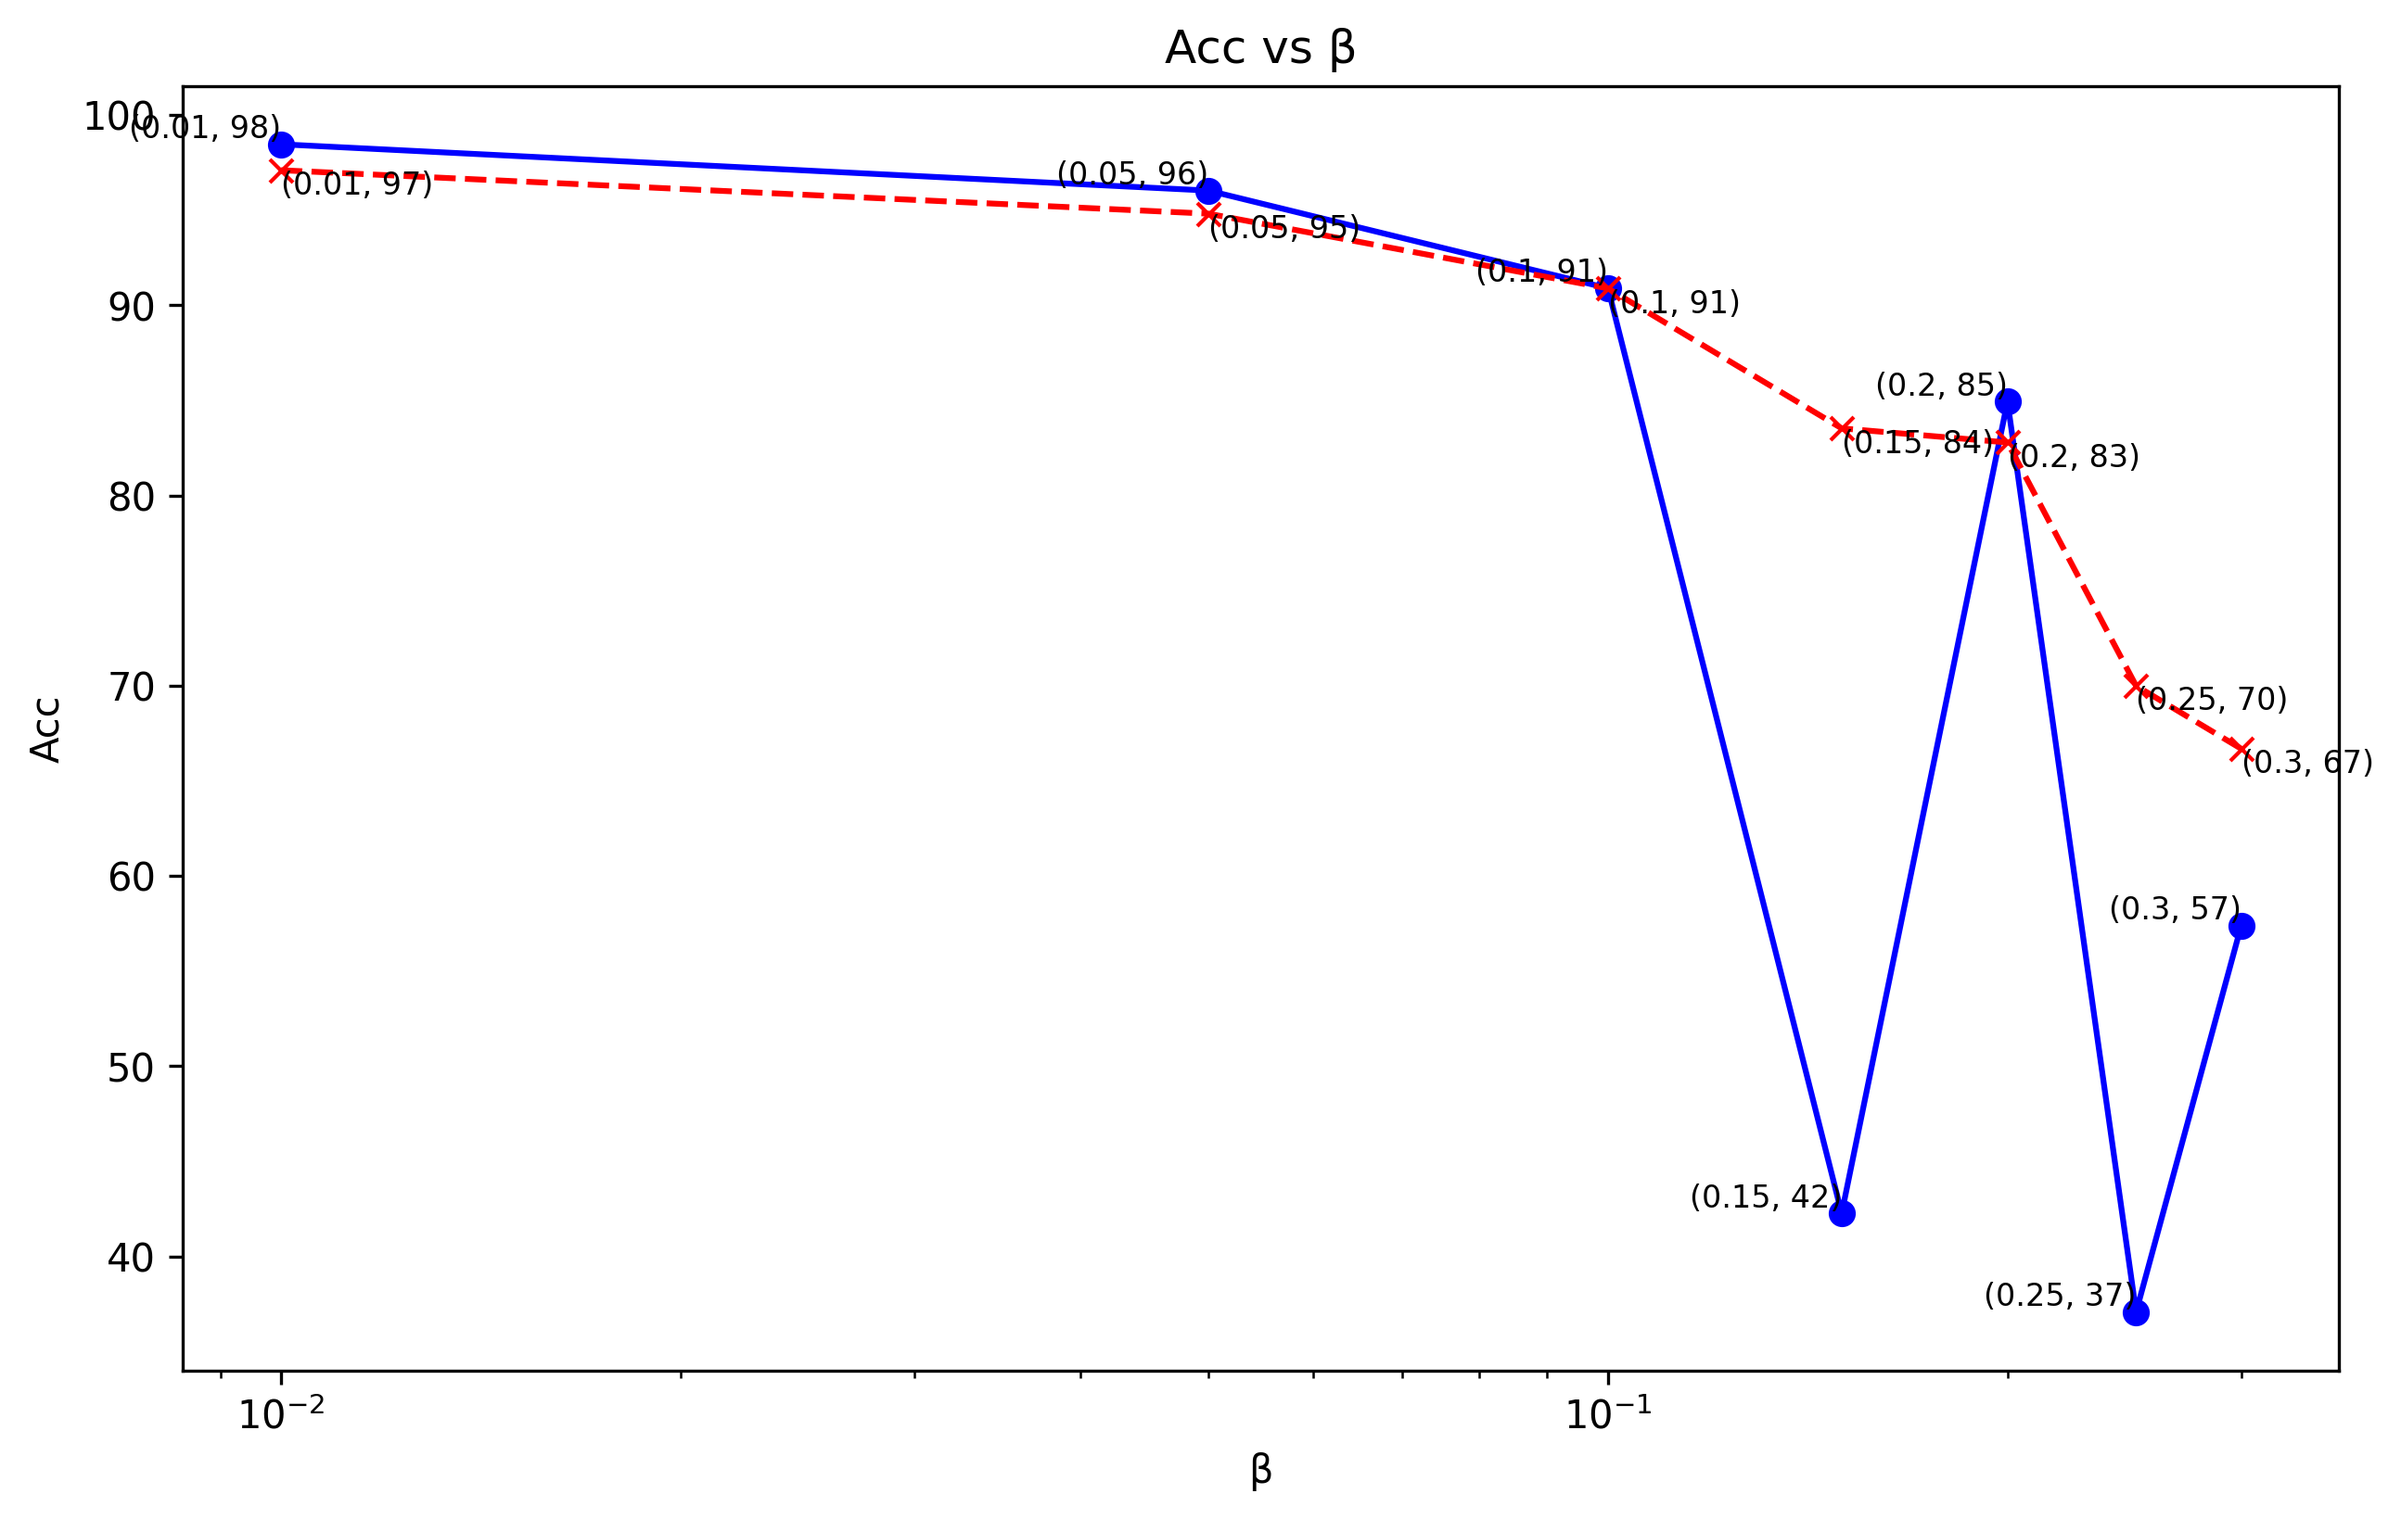
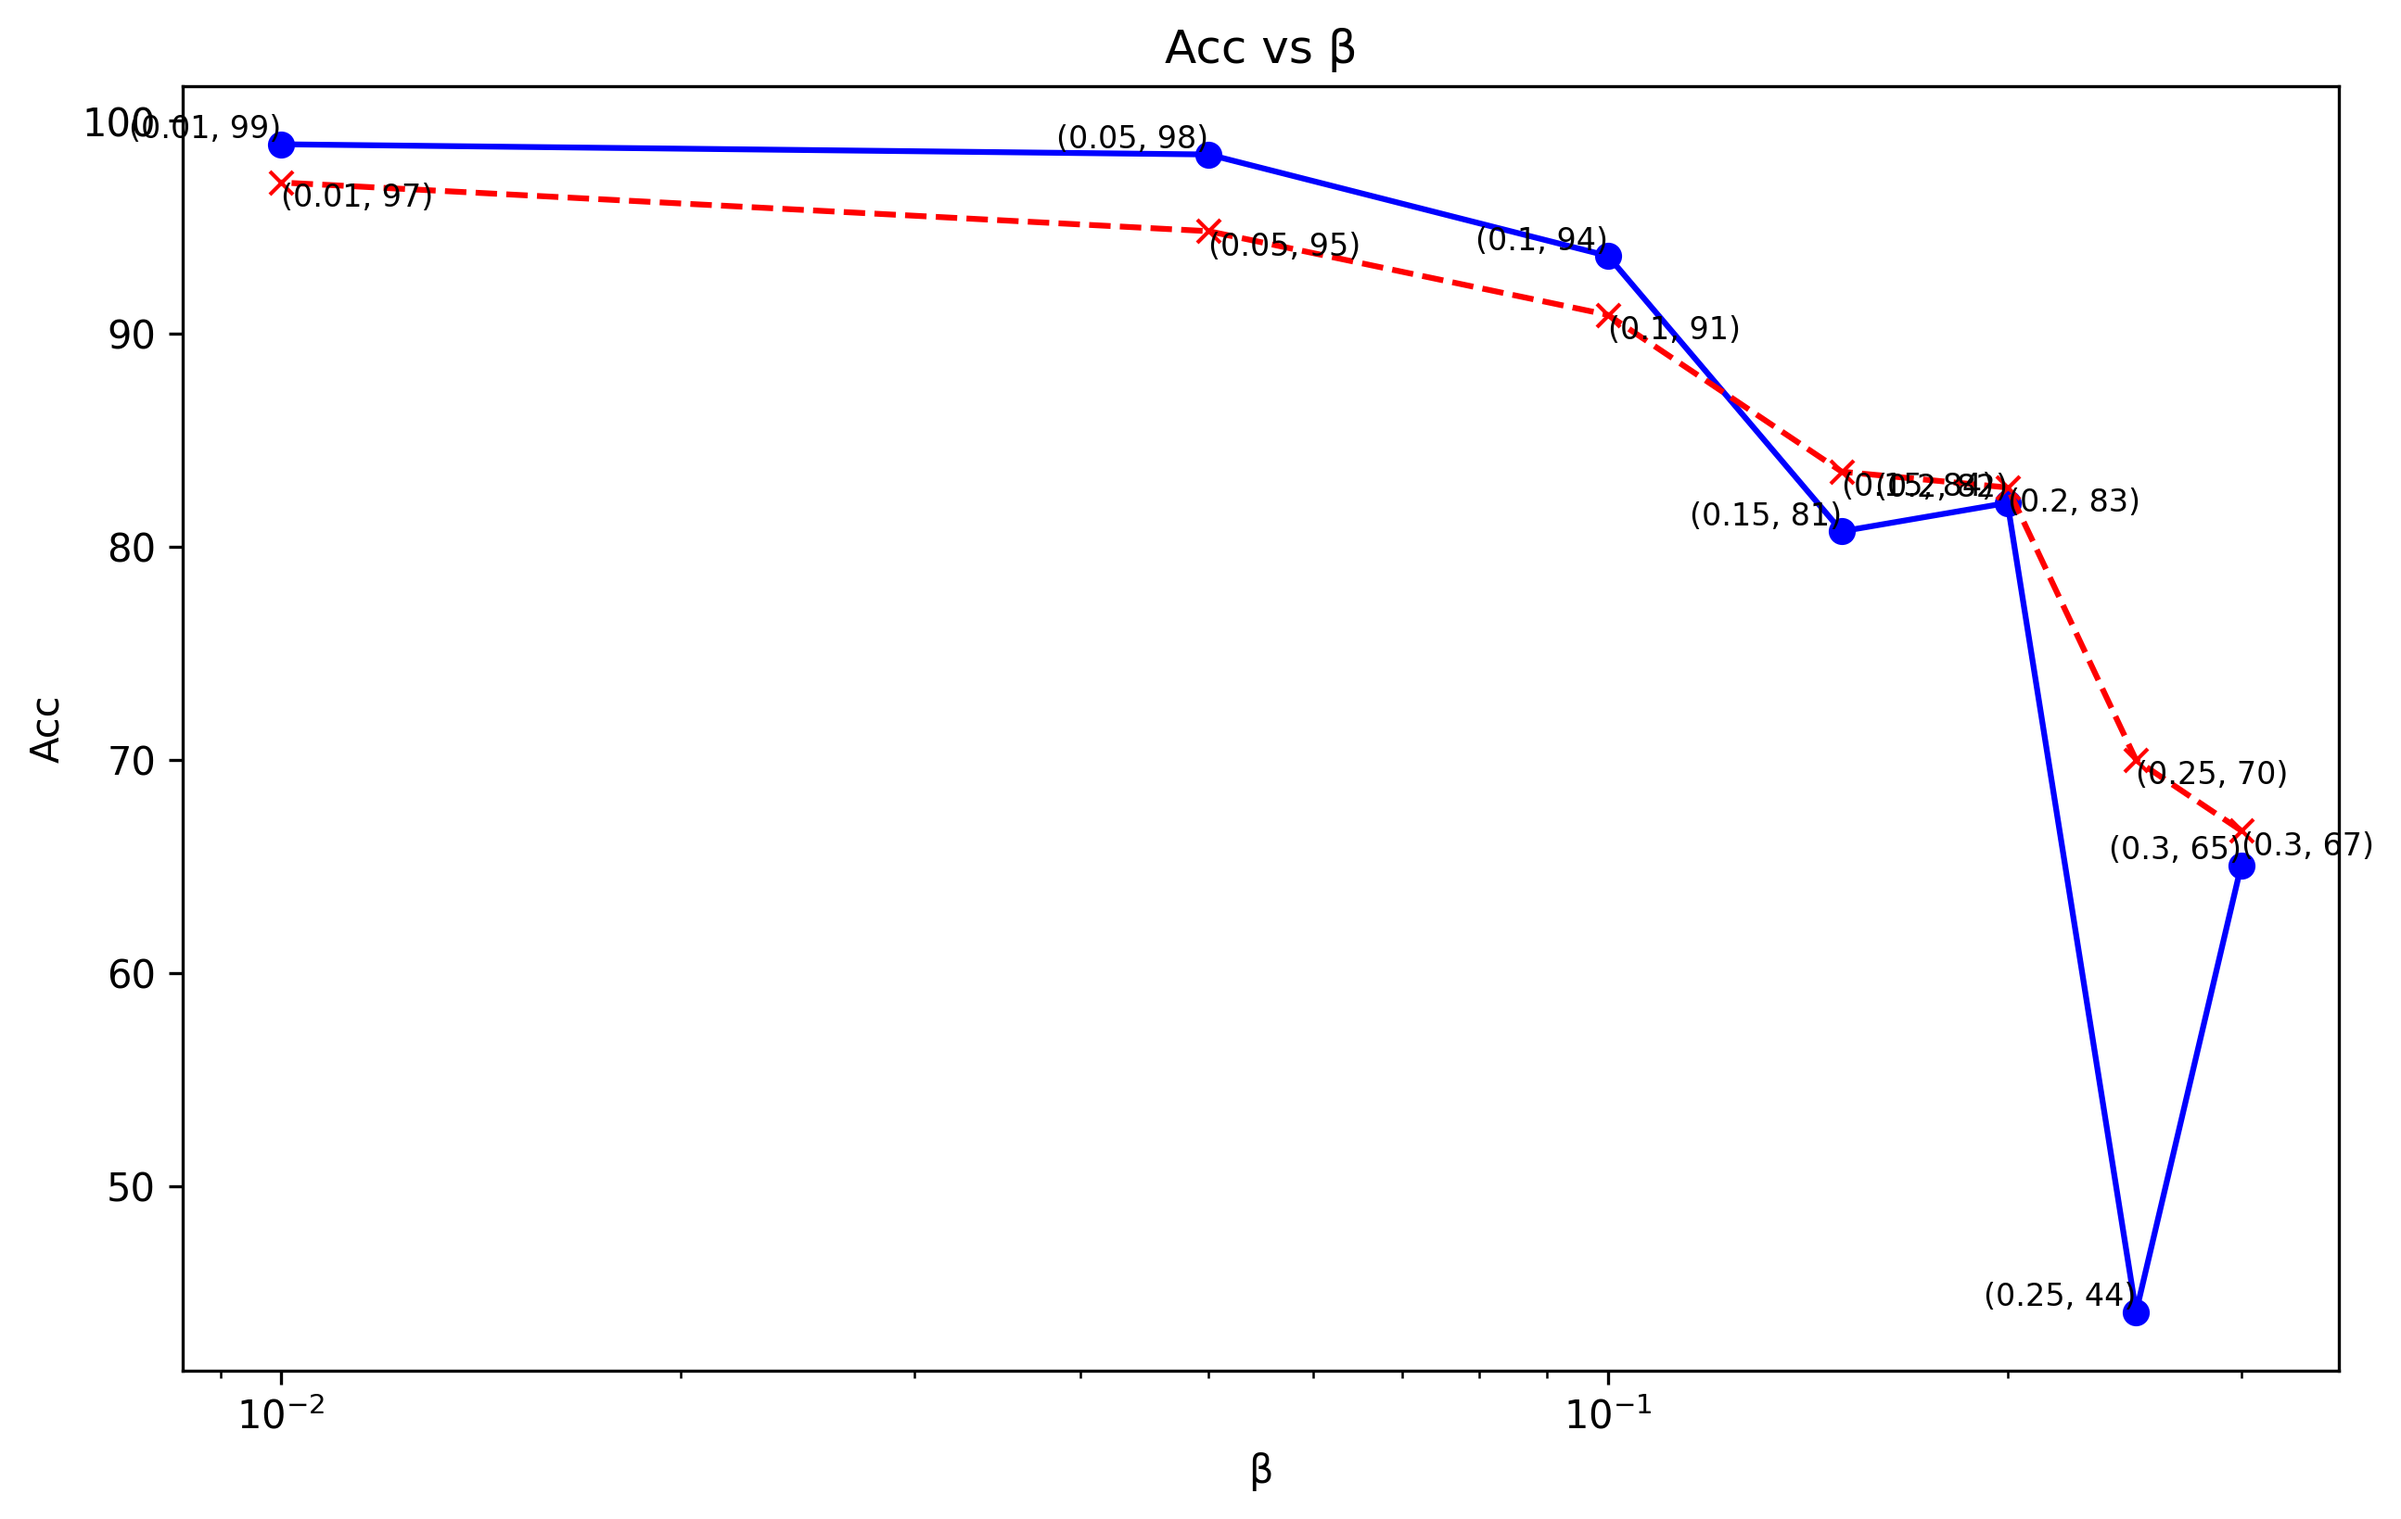
regular testing too

diff --git a/testing/lenet_300_100_mnist.py b/testing/lenet_300_100_mnist.py
@@ -2,8 +2,11 @@ import torch
 import torch.nn.functional as F
 from torch import nn
 from torch.utils.data import Dataset, random_split, DataLoader
+import torch.nn.utils.prune as prune
 import numpy as np
 from tqdm import tqdm
+import copy
+import matplotlib.pyplot as plt
 
 from testing_utils import get_device
 
@@ -123,3 +126,35 @@ if __name__ == "__main__":
   train_model(model, train_loader, test_loader, criterion, optimizer, device)
 
   torch.save(model.state_dict(), "../weights/lenet_300_100_mnist.pth")
+
+  original_model = copy.deepcopy(model)
+
+  prune_ps = [0.0, 0.05, 0.1, 0.15, 0.20, 0.25, 0.3, 0.35, 0.40]
+
+  weight_layers = [
+      ("fc1", "weight"),
+      ("fc2", "weight"),
+      ("fc3", "weight"),
+  ]
+
+  acc_list = []
+  for prune_p in prune_ps:
+    pruned_model = copy.deepcopy(original_model)
+    for layer_name, param_name in weight_layers:
+      module = getattr(pruned_model, layer_name, None)
+      if module is None:
+          print(f"Warning: Layer '{layer_name}' not found in the model")
+          exit(0)
+      prune.l1_unstructured(module, name=param_name, amount=prune_p)
+
+    test_loss, test_acc = evaluate(pruned_model, test_loader, criterion, device)
+    acc_list.append(test_acc)
+    print(f"pruned: {prune_p*100:.1f}% -> test loss: {test_loss:.4f} | test acc: {test_acc:.2f}%")
+
+  plt.figure(figsize=(10, 6))
+  plt.plot(prune_ps, acc_list, marker='o', linestyle='-', color='b')
+
+  plt.title('Accuracy pruned'); plt.xlabel('Pruned %'); plt.ylabel('Accuracy')
+
+  plt.savefig("../plots/lenet_300_100_mnist_pruned_acc.png", dpi=300, bbox_inches='tight')
+  plt.close()

diff --git a/testing/inspect_weights.py b/testing/inspect_weights.py
@@ -13,10 +13,11 @@ def load_weights(filepath, verbose=True):
 if __name__ == "__main__":
   torch.set_printoptions(profile="full")
 
-  weights = load_weights("../weights/vib_lenet_300_100_mnist.pth")
+  weights = load_weights("../weights/lenet_300_100_mnist.pth")
+  #print(weights)
 
-  fc_mu_weights = weights["fc_mu.weight"]
-  fc_std_weights = weights["fc_std.weight"]
+  #fc_mu_weights = weights["fc_mu.weight"]
+  #fc_std_weights = weights["fc_std.weight"]
 
-  print(f"fc mu weights: {fc_mu_weights}")
-  print(f"fc std weights: {fc_std_weights}")
+  #print(f"fc mu weights: {fc_mu_weights}")
+  #print(f"fc std weights: {fc_std_weights}")
